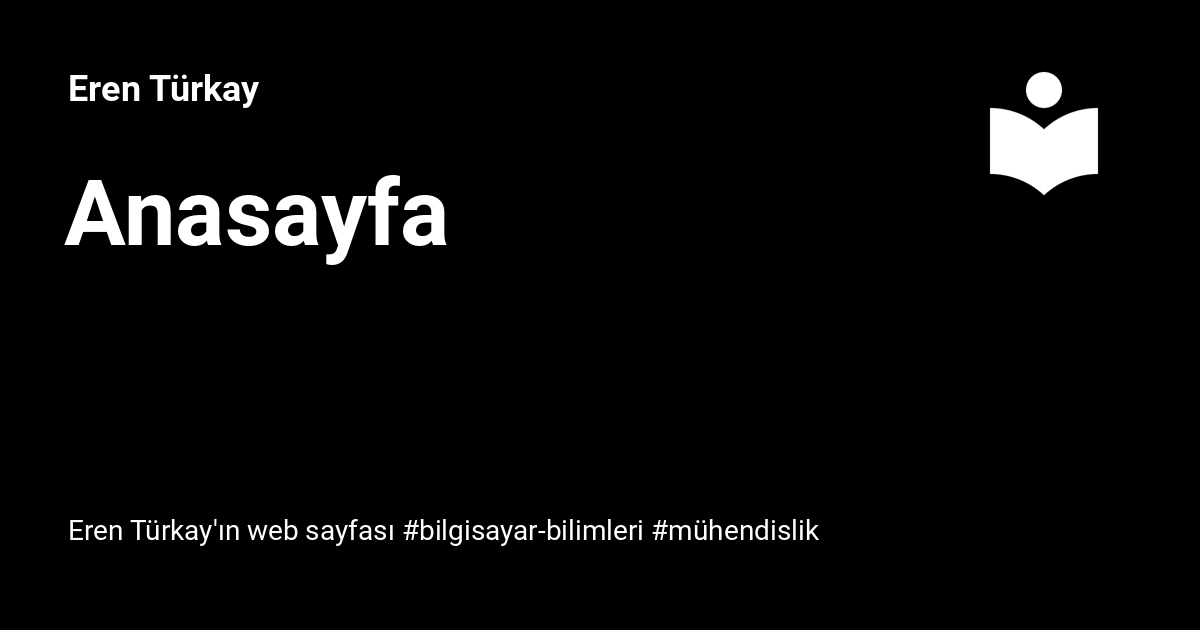
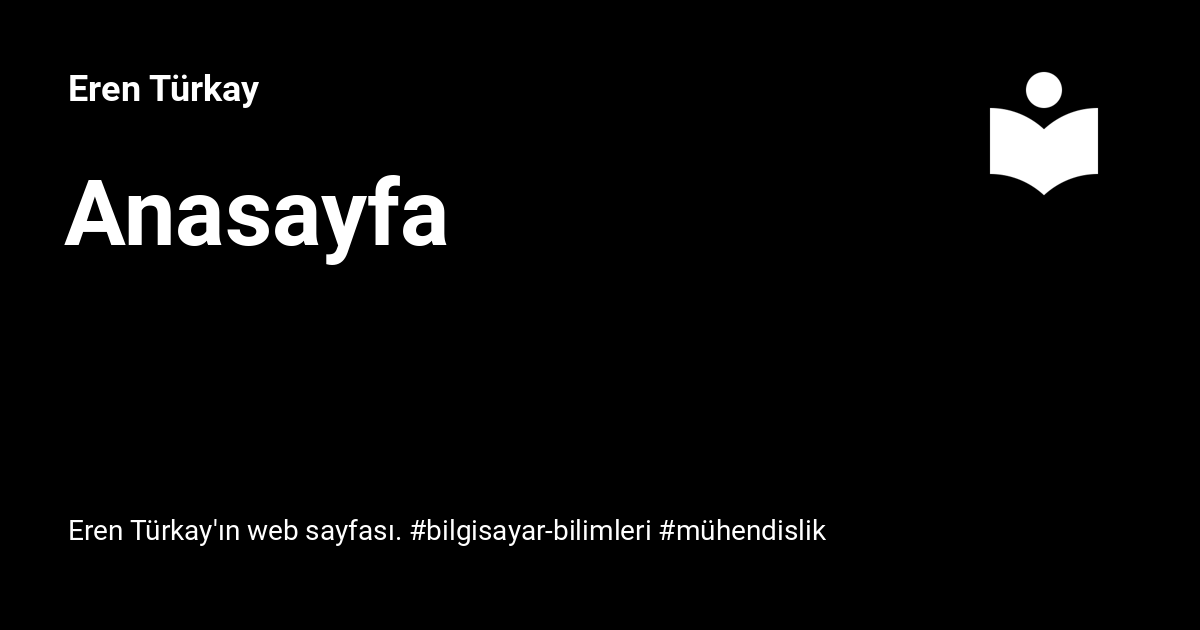
Deployed c4b258c with MkDocs version: 1.5.3

Changed region(s): [[0.3392, 0.8143, 0.6783, 0.8746]]

diff --git a/iletisim/index.html b/iletisim/index.html
@@ -6,7 +6,7 @@
       <meta charset="utf-8">
       <meta name="viewport" content="width=device-width,initial-scale=1">
       
-        <meta name="description" content="Eren Türkay'ın web sayfası #bilgisayar-bilimleri #mühendislik">
+        <meta name="description" content="Eren Türkay'ın web sayfası. #bilgisayar-bilimleri #mühendislik">
       
       
         <meta name="author" content="Eren Türkay">
@@ -63,7 +63,7 @@
       
         <meta  property="og:title"  content="İletişim - Eren Türkay" >
       
-        <meta  property="og:description"  content="Eren Türkay'ın web sayfası #bilgisayar-bilimleri #mühendislik" >
+        <meta  property="og:description"  content="Eren Türkay'ın web sayfası. #bilgisayar-bilimleri #mühendislik" >
       
         <meta  property="og:image"  content="https://erenturkay.com/assets/images/social/iletisim.png" >
       
@@ -79,7 +79,7 @@
       
         <meta  name="twitter:title"  content="İletişim - Eren Türkay" >
       
-        <meta  name="twitter:description"  content="Eren Türkay'ın web sayfası #bilgisayar-bilimleri #mühendislik" >
+        <meta  name="twitter:description"  content="Eren Türkay'ın web sayfası. #bilgisayar-bilimleri #mühendislik" >
       
         <meta  name="twitter:image"  content="https://erenturkay.com/assets/images/social/iletisim.png" >
       

diff --git a/resume/index.html b/resume/index.html
@@ -6,7 +6,7 @@
       <meta charset="utf-8">
       <meta name="viewport" content="width=device-width,initial-scale=1">
       
-        <meta name="description" content="Eren Türkay'ın web sayfası #bilgisayar-bilimleri #mühendislik">
+        <meta name="description" content="Eren Türkay'ın web sayfası. #bilgisayar-bilimleri #mühendislik">
       
       
         <meta name="author" content="Eren Türkay">
@@ -61,7 +61,7 @@
       
         <meta  property="og:title"  content="Resume - Eren Türkay" >
       
-        <meta  property="og:description"  content="Eren Türkay'ın web sayfası #bilgisayar-bilimleri #mühendislik" >
+        <meta  property="og:description"  content="Eren Türkay'ın web sayfası. #bilgisayar-bilimleri #mühendislik" >
       
         <meta  property="og:image"  content="https://erenturkay.com/assets/images/social/resume.png" >
       
@@ -77,7 +77,7 @@
       
         <meta  name="twitter:title"  content="Resume - Eren Türkay" >
       
-        <meta  name="twitter:description"  content="Eren Türkay'ın web sayfası #bilgisayar-bilimleri #mühendislik" >
+        <meta  name="twitter:description"  content="Eren Türkay'ın web sayfası. #bilgisayar-bilimleri #mühendislik" >
       
         <meta  name="twitter:image"  content="https://erenturkay.com/assets/images/social/resume.png" >
       

diff --git a/index.html b/index.html
@@ -6,7 +6,7 @@
       <meta charset="utf-8">
       <meta name="viewport" content="width=device-width,initial-scale=1">
       
-        <meta name="description" content="Eren Türkay'ın web sayfası #bilgisayar-bilimleri #mühendislik">
+        <meta name="description" content="Eren Türkay'ın web sayfası. #bilgisayar-bilimleri #mühendislik">
       
       
         <meta name="author" content="Eren Türkay">
@@ -63,7 +63,7 @@
       
         <meta  property="og:title"  content="Anasayfa" >
       
-        <meta  property="og:description"  content="Eren Türkay'ın web sayfası #bilgisayar-bilimleri #mühendislik" >
+        <meta  property="og:description"  content="Eren Türkay'ın web sayfası. #bilgisayar-bilimleri #mühendislik" >
       
         <meta  property="og:image"  content="https://erenturkay.com/assets/images/social/index.png" >
       
@@ -79,7 +79,7 @@
       
         <meta  name="twitter:title"  content="Anasayfa" >
       
-        <meta  name="twitter:description"  content="Eren Türkay'ın web sayfası #bilgisayar-bilimleri #mühendislik" >
+        <meta  name="twitter:description"  content="Eren Türkay'ın web sayfası. #bilgisayar-bilimleri #mühendislik" >
       
         <meta  name="twitter:image"  content="https://erenturkay.com/assets/images/social/index.png" >
       

diff --git a/404.html b/404.html
@@ -6,7 +6,7 @@
       <meta charset="utf-8">
       <meta name="viewport" content="width=device-width,initial-scale=1">
       
-        <meta name="description" content="Eren Türkay'ın web sayfası #bilgisayar-bilimleri #mühendislik">
+        <meta name="description" content="Eren Türkay'ın web sayfası. #bilgisayar-bilimleri #mühendislik">
       
       
         <meta name="author" content="Eren Türkay">
